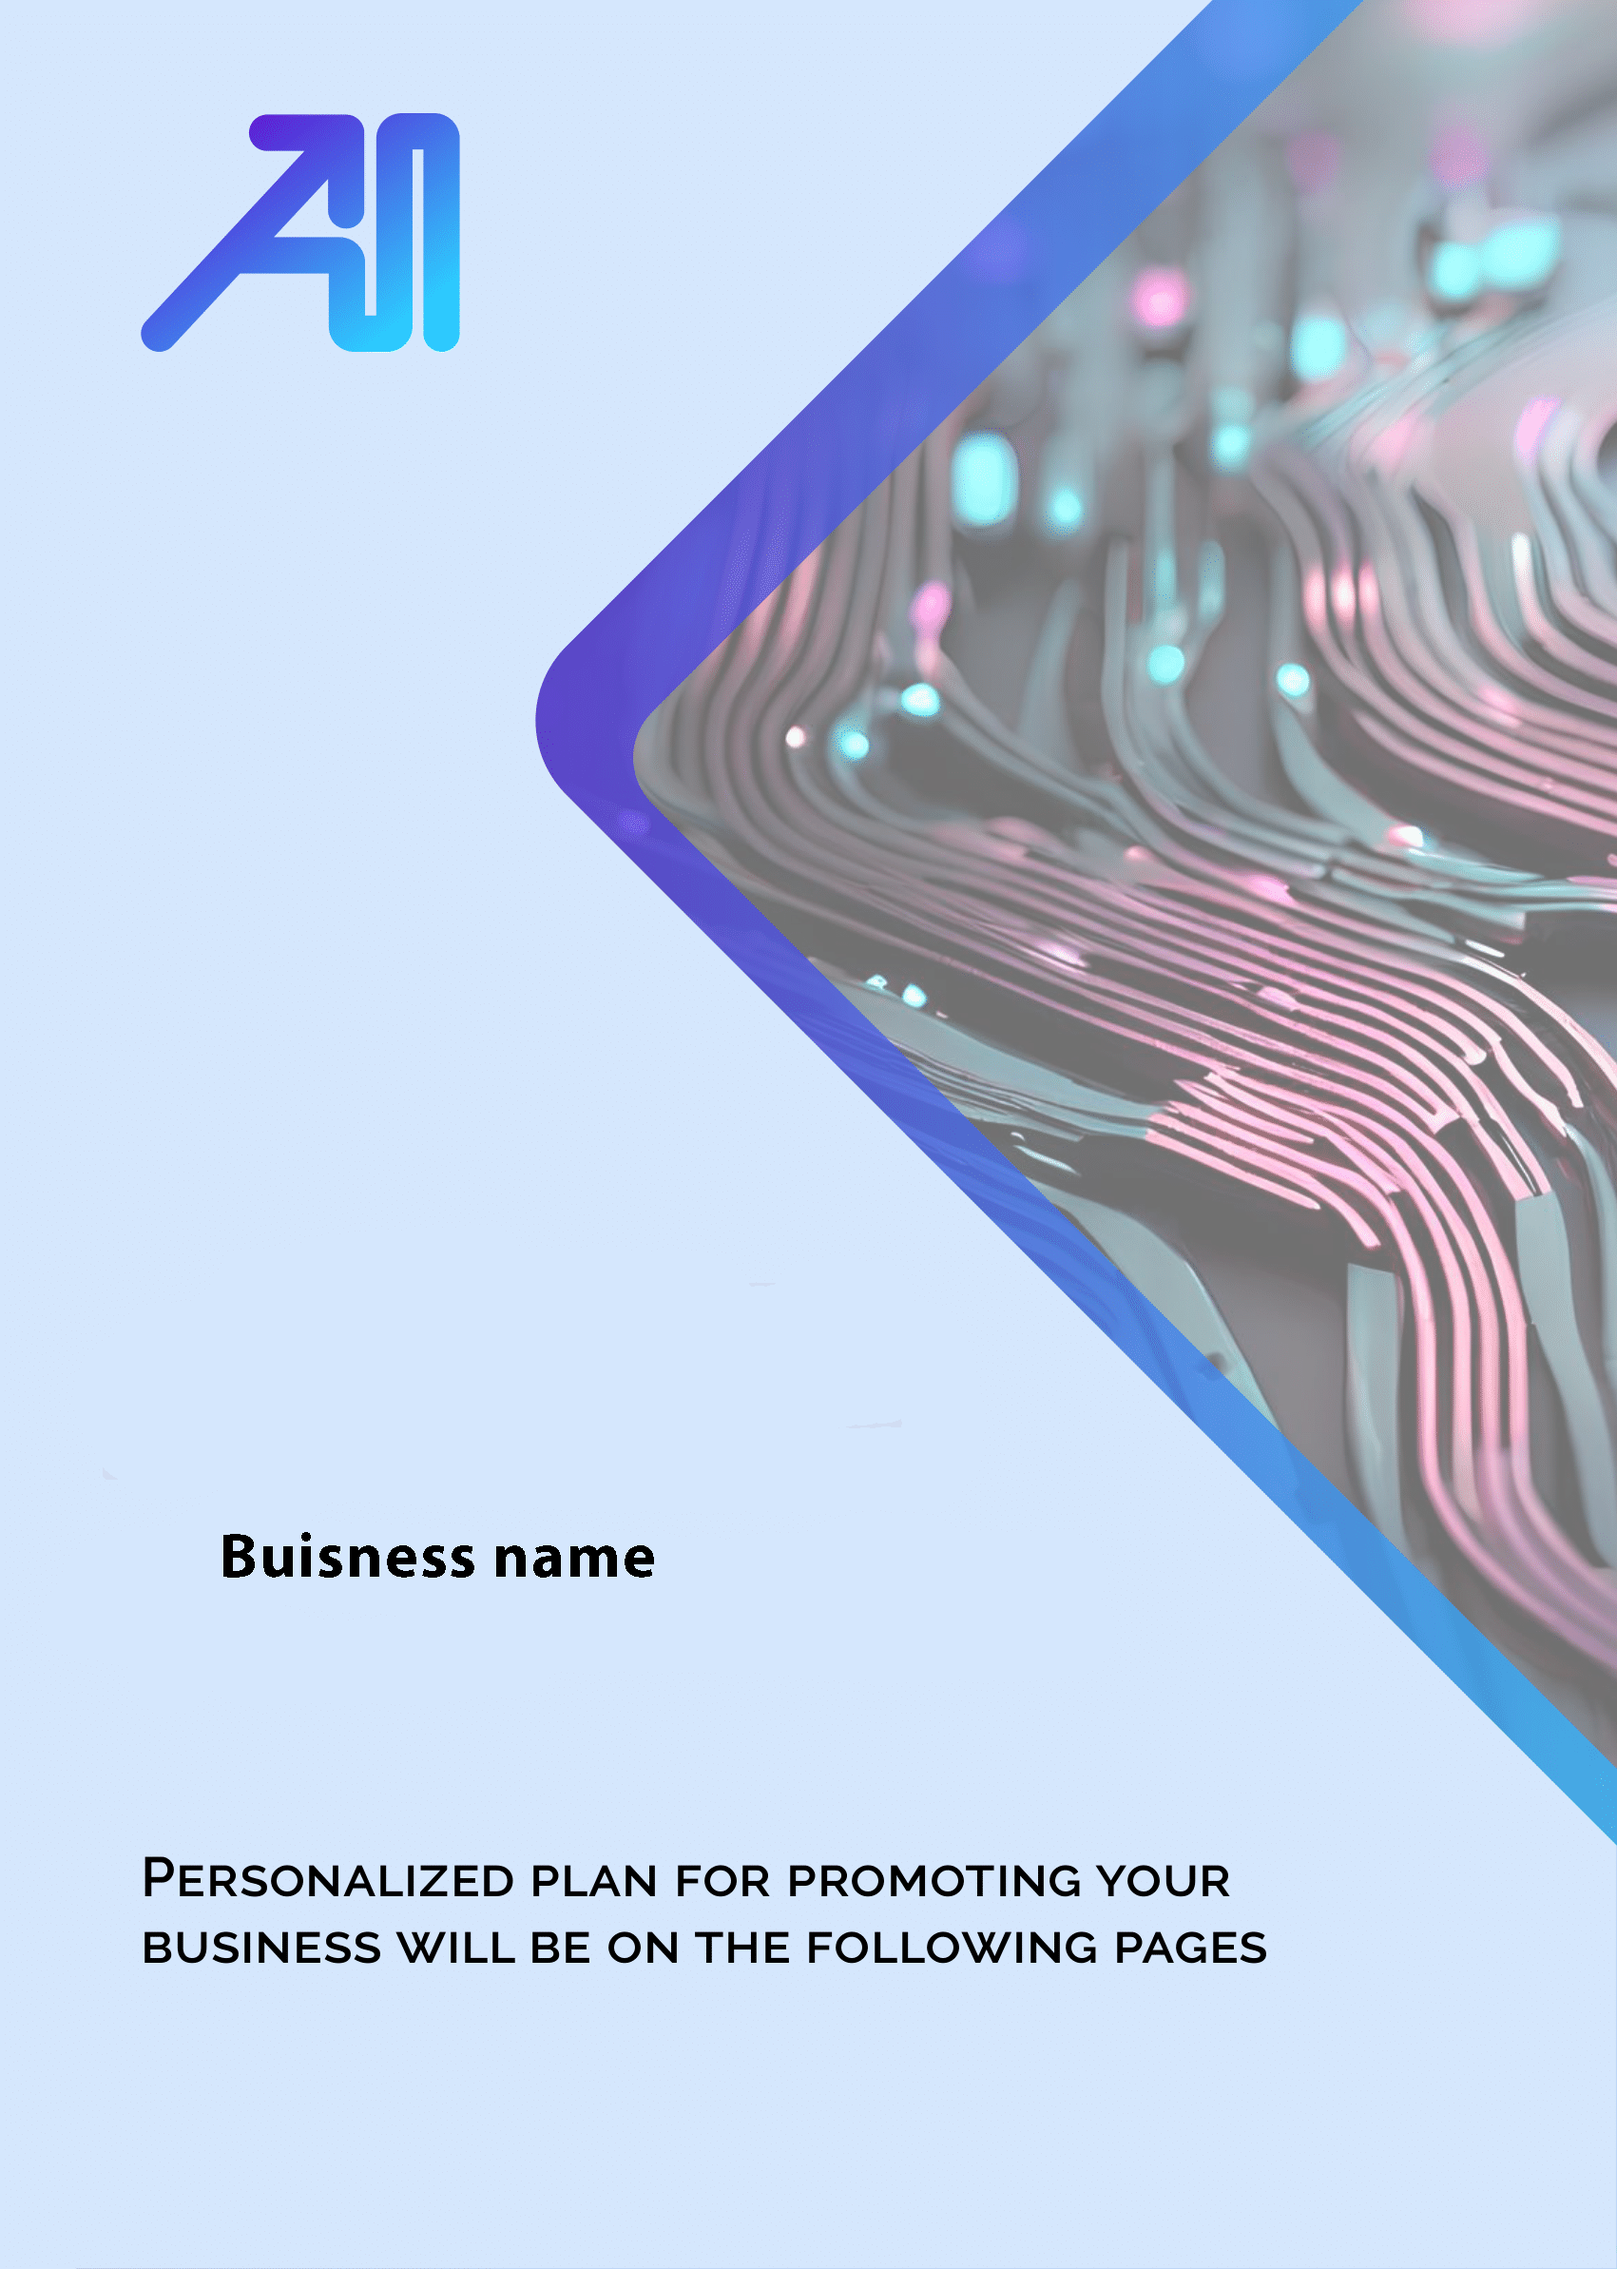
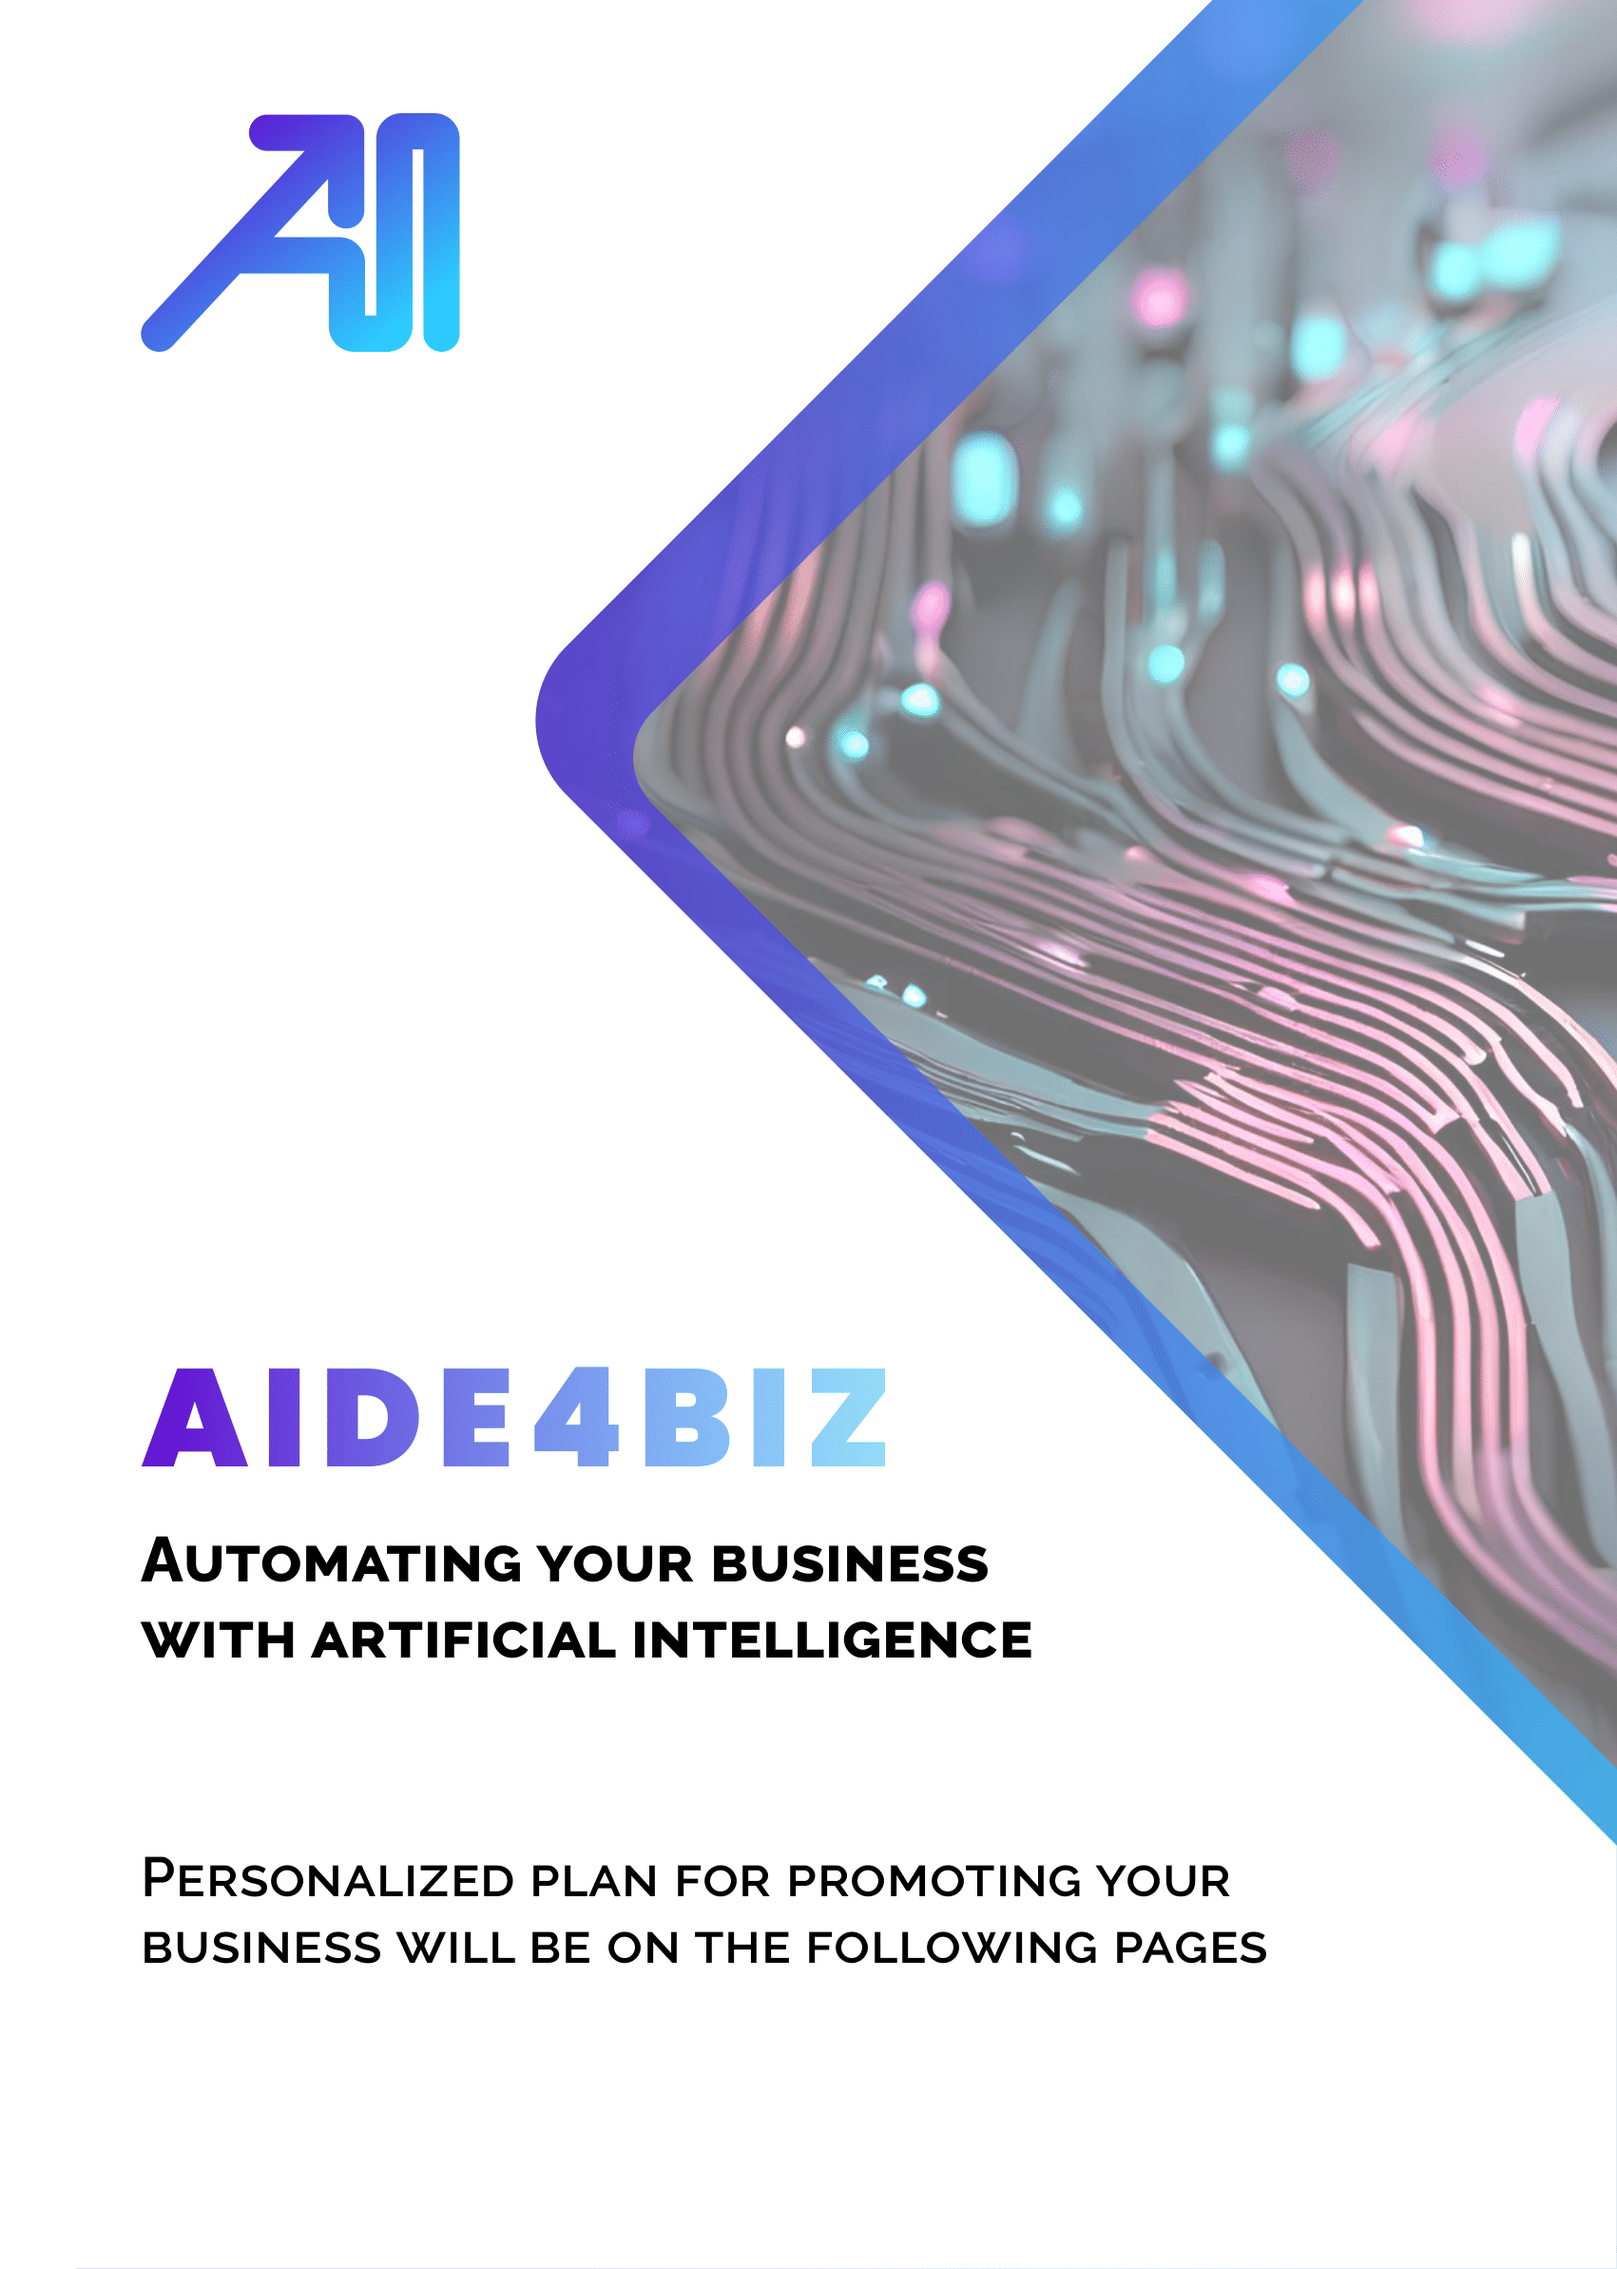
Chat-Gpt: Become Pdf

diff --git a/backend.py b/backend.py
@@ -76,7 +76,7 @@ class PDFCreate:
         pdf.set_xy(0, 100)
         pdf.set_text_color(255, 255, 255)
         pdf.set_font('Arial', size=28, style='B')
-        pdf.cell(220, -100, company_name, 0, 1, 'C')
+        pdf.cell(220, -125, company_name, 0, 1, 'C')
         pdf.set_text_color(0, 0, 0)
         pdf.set_font('Arial', size=15)
         # Добавляем ответы бота на 10 вопросов
@@ -84,9 +84,9 @@ class PDFCreate:
         pdf.multi_cell(w=0, h=10, txt=text)
 
 
-        # Добавляем последнюю страницу в PDF файл
-        pdf.add_page()
-        pdf.image('LastPage.png', x=0, y=0, w=210, h=297)
+        # # Добавляем последнюю страницу в PDF файл
+        # pdf.add_page()
+        # pdf.image('LastPage.png', x=0, y=0, w=210, h=297)
 
         # Сохраняем изменения в PDF файле
         pdf.output('plan.pdf')
